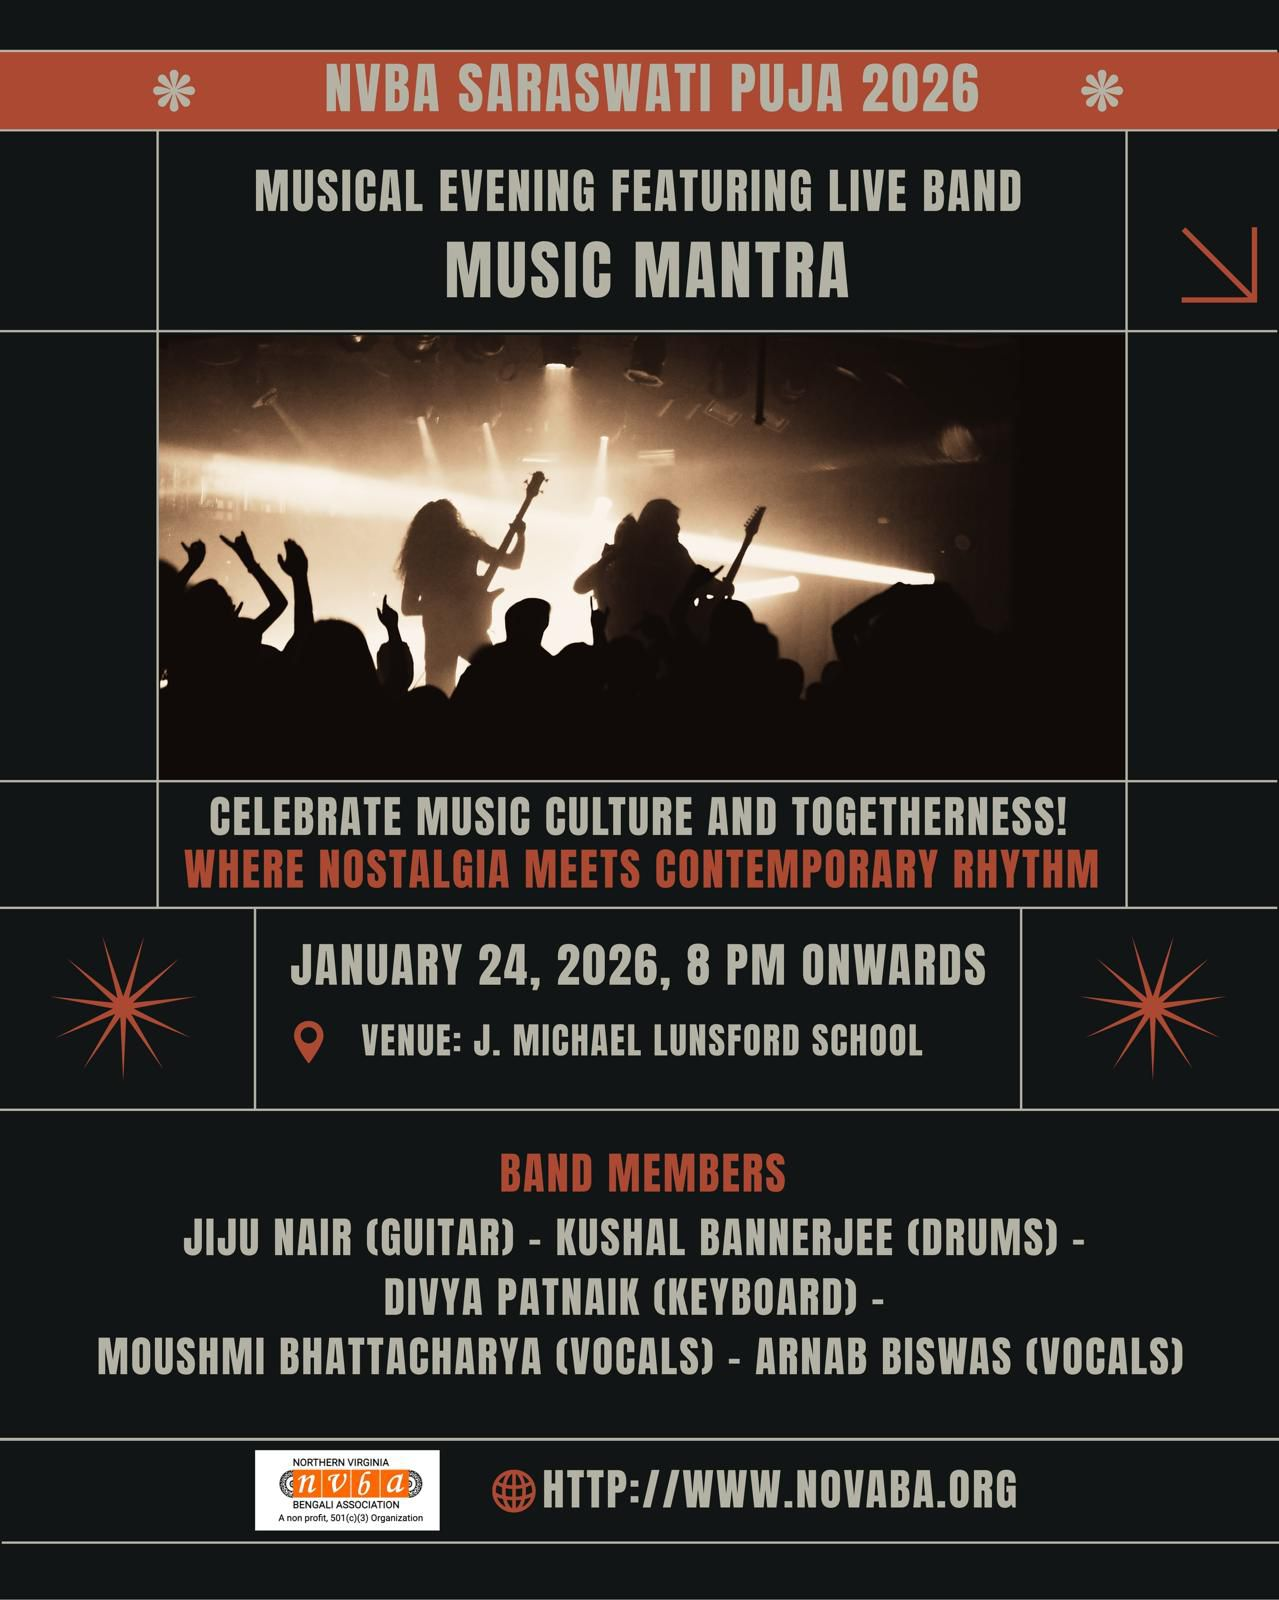
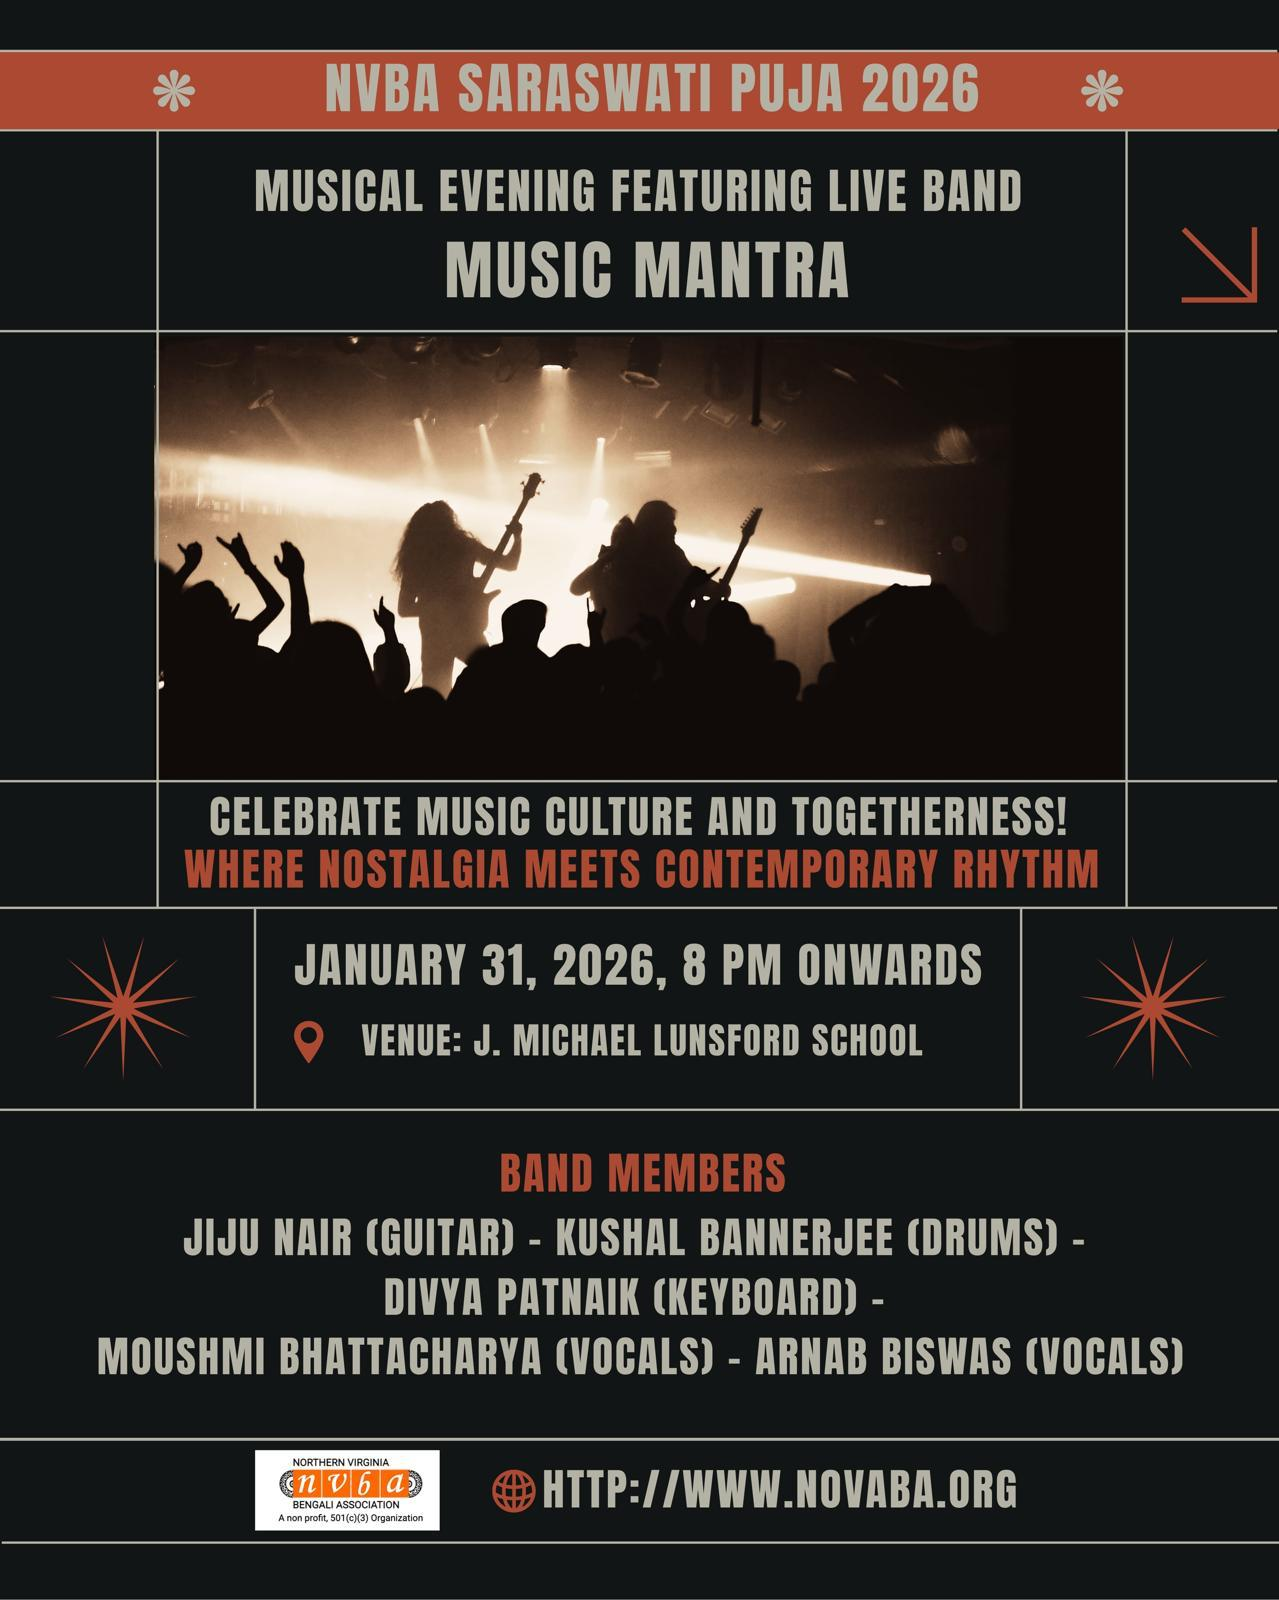
few event specific images updated with rescheduled date.

diff --git a/src/app/pages/saraswatipuja2026/saraswatipuja2026.component.html b/src/app/pages/saraswatipuja2026/saraswatipuja2026.component.html
@@ -20,32 +20,12 @@
                 <h3 class="text-center">NVBA Bhuri Bhoj</h3>
               </div>
               <h6><p>Keeping up with our tradition of providing the best authentic food, We are also planning to have a scrumptious menu for Lunch and Dinner as well</p></h6>
-              <div class="col-md-8  " style="margin: 0 auto;" >
-                <img class="col-md-12 text-center"  src="./../../../../assets/images/gallery/sp2026/Food Menu-2026.jpg" >
+              <div class="col-md-8" style="margin: 0 auto;" >
+                <img class="col-md-10 text-center"  src="./../../../../assets/images/gallery/sp2026/Food Menu-2026.jpg" >
               </div>
             </div>
           </div>
     </section>
-
-        <!-- <section class="ftco-section bg-light">
-        <div class="container">
-            <div class="row">
-                <div class="col-md-6 flex ftco-animate align-items-center ">
-                    <h2 class="mb-4 ">Venue:  </h2>
-                      <div class="" >
-                        <p>
-                            J Michael Lunsford Middle School<br />
-                            26020 Ticonderoga Rd, <br /> Chantilly, VA 20152,
-                            <br /><br />
-                            Timings(Subject to change based on inclement weather forecast): <br />
-                            January 31st -  10:00 AM to 10:00 PM. <br>
-                        </p>
-                      </div>
-
-                </div>
-            </div>
-        </div>
-    </section> -->
 
     <section>
         <div class="container mb-3">
@@ -59,8 +39,8 @@
                     <app-sptickets2026></app-sptickets2026>
                 </div>
                 <div class="flex-center text-center mt-3 table ">
-                    <h3 class="text-center">Event - Schedule</h3><br/>
-                    <img class="col-md-8 text-center"  src="./../../../../assets/images/gallery/sp2026/Event Schedule.jpg" >
+                    <h3 class="text-center">Detailed Event - Schedule</h3><br/>
+                    <img class="col-md-6 text-center"  src="./../../../../assets/images/gallery/sp2026/Event Schedule.jpg" >
                 </div>
                 <div class="flex-center text-center mt-3 table ">
                     <h3 class="text-center">NVBA Saraswati Puja 2026 - Lots of activities planned</h3><br/>
@@ -78,16 +58,15 @@
                             </h6>
                             </td>
                         </tr>
-                        <tr>
+                        <!-- <tr>
                             <td>
                             <h6>Cultural Participation </h6>
                             </td>
                             <td>
-                            <!-- <h6>The cultural submission link can be found <a href="https://forms.gle/wFQWbzE73AJQES1x5">for participation</a>, and the line will be closed on Dec 20, 2025 -->
                             <h6>The cultural submission for kids performance is closed on Dec 20, 2025
                             </h6>
                             </td>
-                        </tr>
+                        </tr> -->
                         <tr>
                             <td>
                             <h6>Art Competition:</h6>
@@ -128,9 +107,9 @@
                     </div>
                 </div>
 
-                <div class="col-md-8  " style="margin: 0 auto 10px auto; border-bottom: 1px solid #ccc;" >
+                <!-- <div class="col-md-8  " style="margin: 0 auto 10px auto; border-bottom: 1px solid #ccc;" >
                 <img class="col-md-12 text-center"  src="./../../../../assets/images/stocks/2024/events.jpg" >
-                </div>
+                </div> -->
             <div class="col-md-8  " style="margin: 10px auto;">
                 <h3 class="mb-4 orange">Sponsorship options are available for Cultural, Art, Chotoder Abritti, Carrom competition, Raffle </h3>
                     <div class="" >
